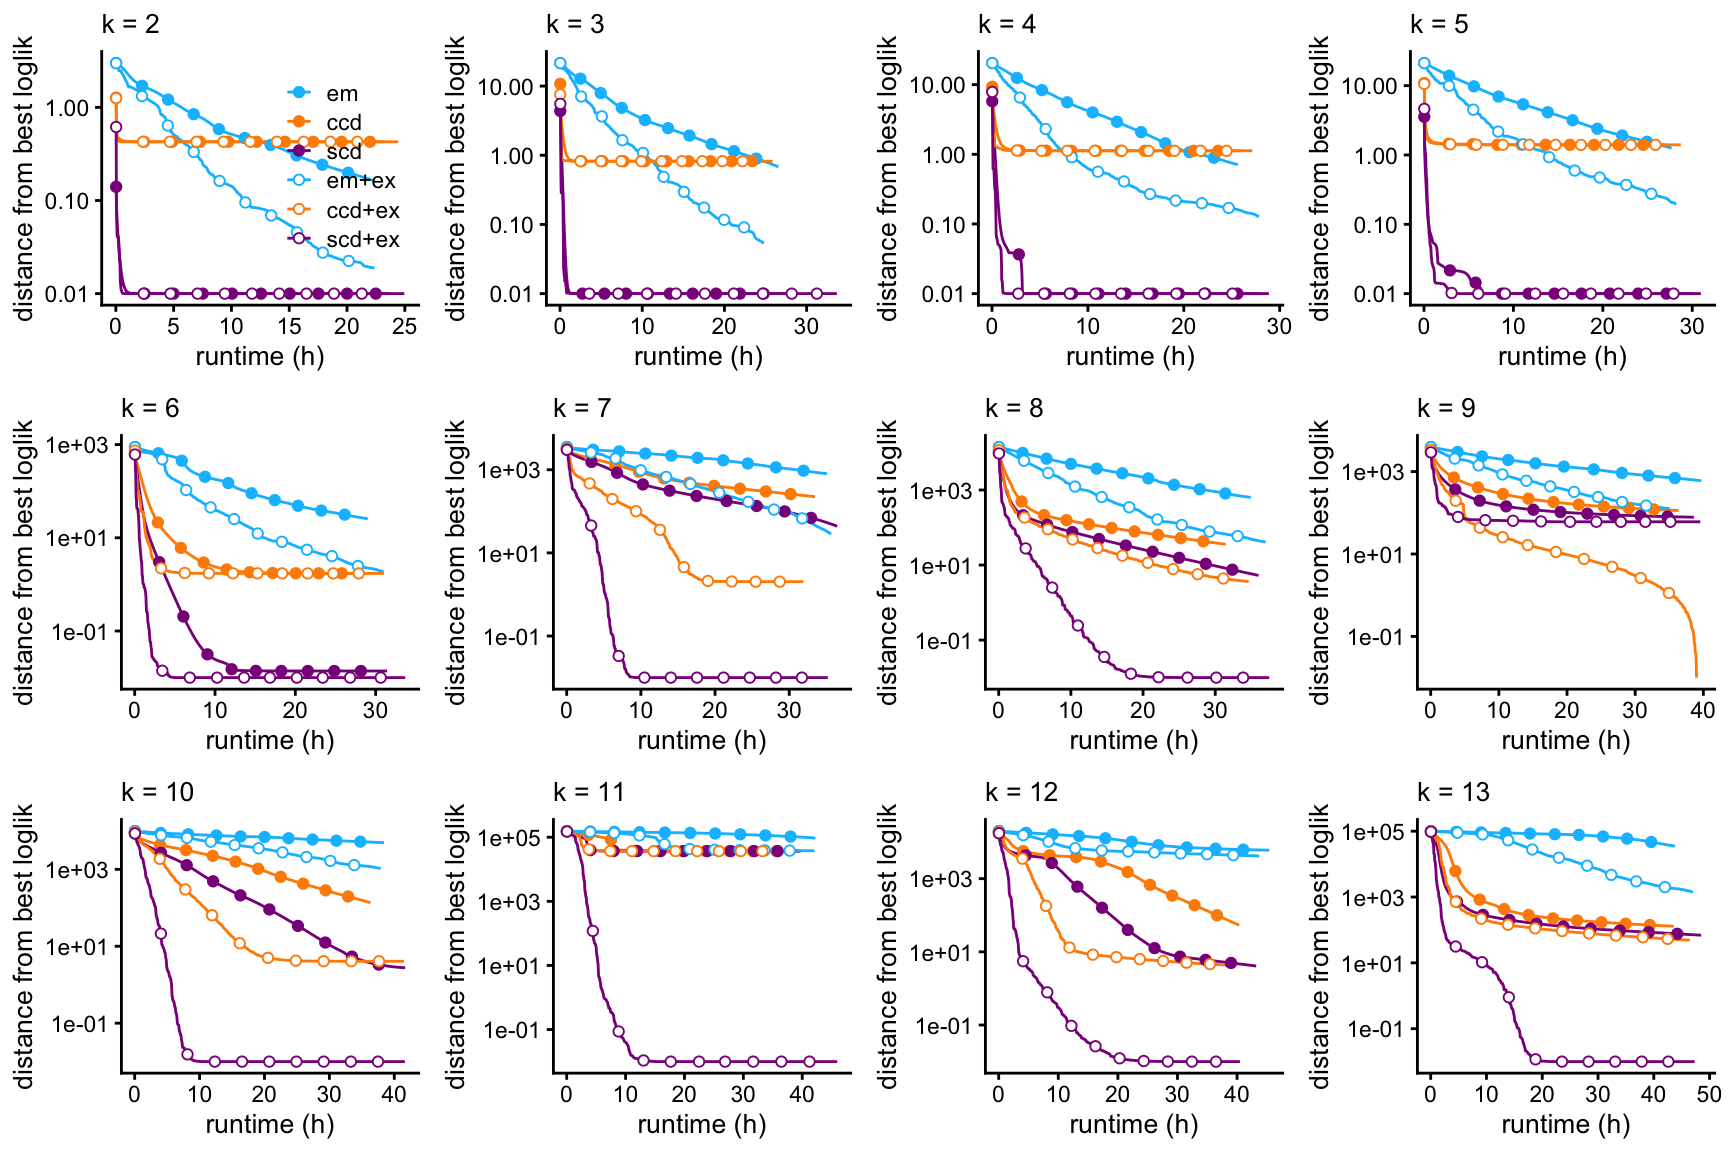
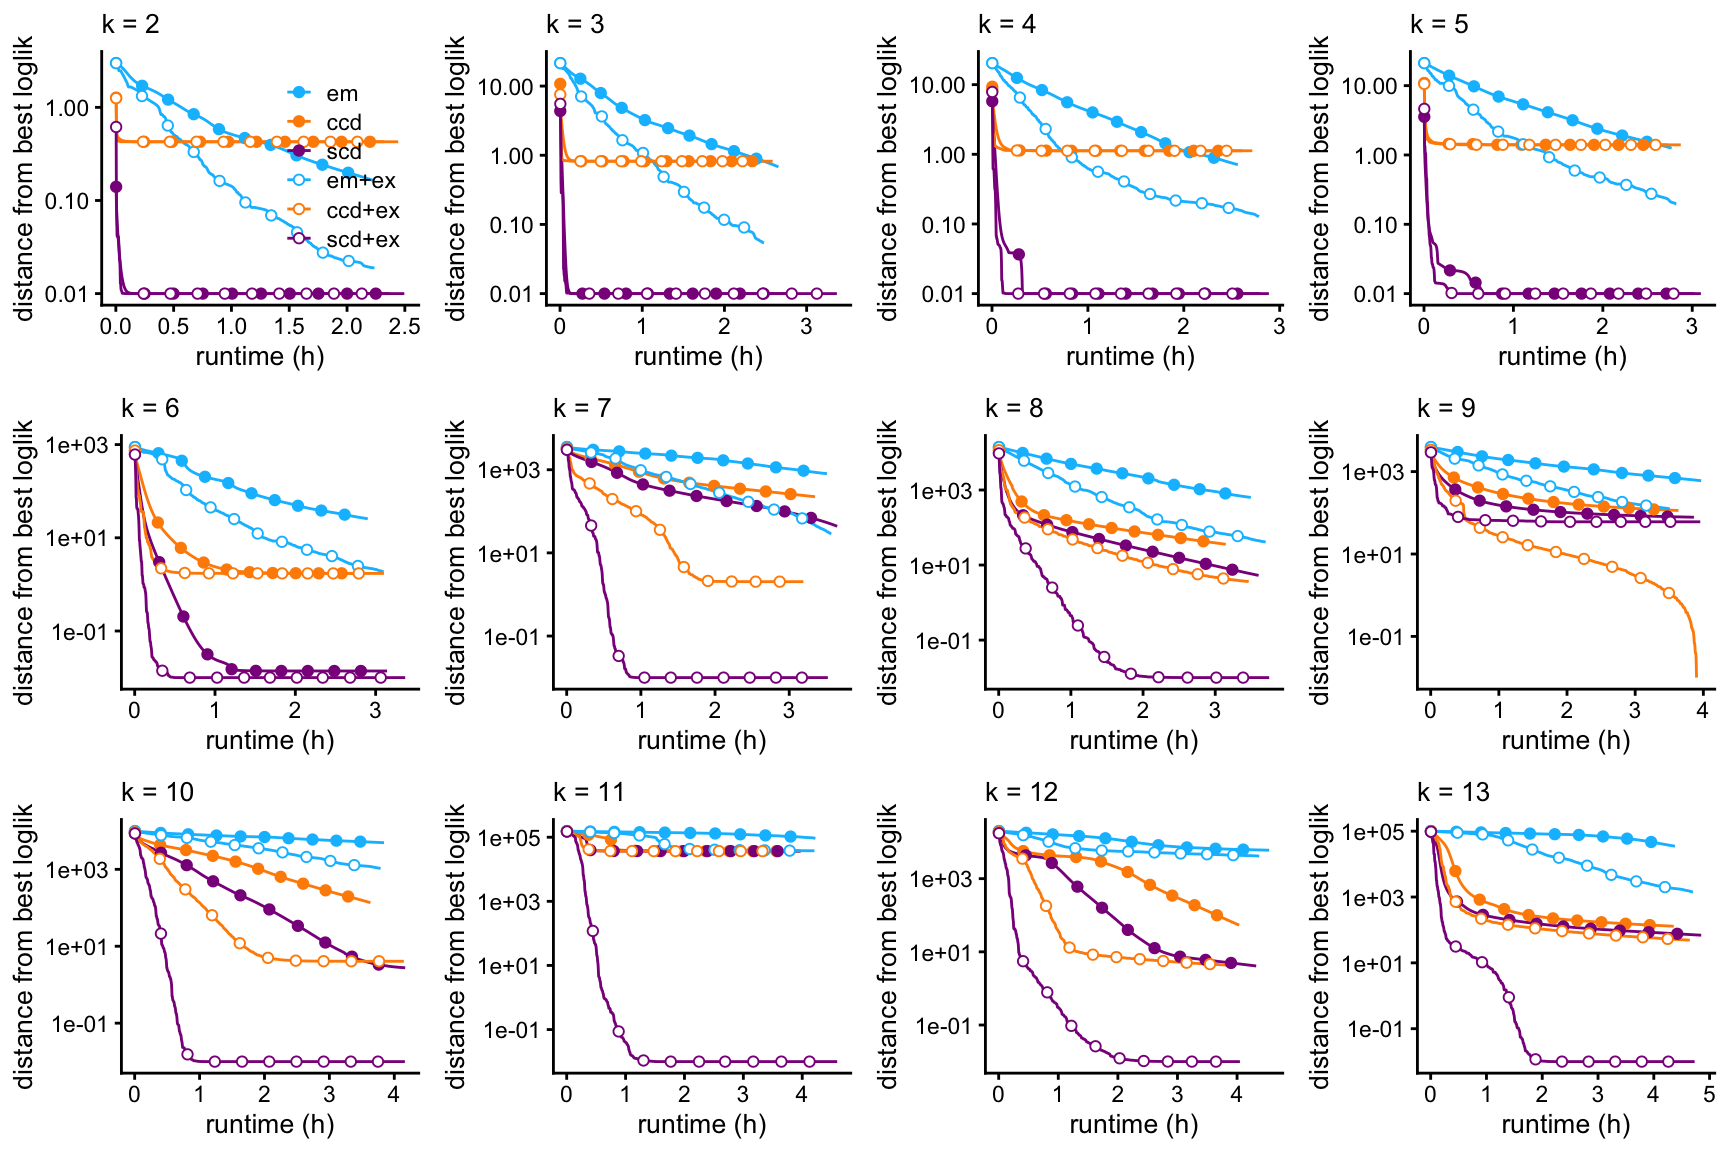
Re-ran assess_fits_68k_pbmc analysis with fix to timings reported in x axes.

diff --git a/docs/assess_fits_68k_pbmc.html b/docs/assess_fits_68k_pbmc.html
@@ -285,7 +285,9 @@ $(document).ready(function () {
 </li>
       </ul>
       <ul class="nav navbar-nav navbar-right">
-        
+        <li>
+  <a href="https://github.com/stephenslab/single-cell-topics">source</a>
+</li>
       </ul>
     </div><!--/.nav-collapse -->
   </div><!--/.container -->
@@ -321,7 +323,7 @@ $(document).ready(function () {
 <div class="tab-content">
 <div id="summary" class="tab-pane fade in active">
 <p>
-<strong>Last updated:</strong> 2020-08-10
+<strong>Last updated:</strong> 2020-08-31
 </p>
 <p>
 <strong>Checks:</strong> <span class="glyphicon glyphicon-ok text-success" aria-hidden="true"></span> 7 <span class="glyphicon glyphicon-exclamation-sign text-danger" aria-hidden="true"></span> 0
@@ -412,25 +414,34 @@ This reproducible <a href="http://rmarkdown.rstudio.com">R Markdown</a> analysis
 <div class="panel panel-default">
 <div class="panel-heading">
 <p class="panel-title">
-<a data-toggle="collapse" data-parent="#workflowr-checks" href="#strongRepositoryversionstrongahrefhttpsgithubcomstephenslabsinglecelltopicstree31361c96e319fe107126a111788c26a92f85ce1ftargetblank31361c9a"> <span class="glyphicon glyphicon-ok text-success" aria-hidden="true"></span> <strong>Repository version:</strong> <a href="https://github.com/stephenslab/single-cell-topics/tree/31361c96e319fe107126a111788c26a92f85ce1f" target="_blank">31361c9</a> </a>
+<a data-toggle="collapse" data-parent="#workflowr-checks" href="#strongRepositoryversionstrongahrefhttpsgithubcomstephenslabsinglecelltopicstreef970ef9bda99c49fd81401e028bfbae9a556d661targetblankf970ef9a"> <span class="glyphicon glyphicon-ok text-success" aria-hidden="true"></span> <strong>Repository version:</strong> <a href="https://github.com/stephenslab/single-cell-topics/tree/f970ef9bda99c49fd81401e028bfbae9a556d661" target="_blank">f970ef9</a> </a>
 </p>
 </div>
[2 lines of base64/hex data omitted]
 <div class="panel-body">
 <p>
 Great! You are using Git for version control. Tracking code development and connecting the code version to the results is critical for reproducibility.
 </p>
 <p>
-The results in this page were generated with repository version <a href="https://github.com/stephenslab/single-cell-topics/tree/31361c96e319fe107126a111788c26a92f85ce1f" target="_blank">31361c9</a>. See the <em>Past versions</em> tab to see a history of the changes made to the R Markdown and HTML files.
+The results in this page were generated with repository version <a href="https://github.com/stephenslab/single-cell-topics/tree/f970ef9bda99c49fd81401e028bfbae9a556d661" target="_blank">f970ef9</a>. See the <em>Past versions</em> tab to see a history of the changes made to the R Markdown and HTML files.
 </p>
 <p>
 Note that you need to be careful to ensure that all relevant files for the analysis have been committed to Git prior to generating the results (you can use <code>wflow_publish</code> or <code>wflow_git_commit</code>). workflowr only checks the R Markdown file, but you know if there are other scripts or data files that it depends on. Below is the status of the Git repository when the results were generated:
 </p>
 <pre><code>
 Ignored files:
+    Ignored:    data/droplet.RData
+    Ignored:    data/pbmc_68k.RData
+    Ignored:    data/pbmc_purified.RData
+    Ignored:    data/pulseseq.RData
     Ignored:    output/droplet/fits-droplet.RData
+    Ignored:    output/droplet/rds/
     Ignored:    output/pbmc-68k/fits-pbmc-68k.RData
+    Ignored:    output/pbmc-68k/rds/
     Ignored:    output/pbmc-purified/fits-pbmc-purified.RData
+    Ignored:    output/pbmc-purified/rds/
+    Ignored:    output/pulseseq/fits-pulseseq.RData
+    Ignored:    output/pulseseq/rds/
 
 </code></pre>
 <p>
@@ -469,6 +480,23 @@ Message
 </tr>
 </thead>
 <tbody>
+<tr>
+<td>
+html
+</td>
+<td>
+<a href="https://rawcdn.githack.com/stephenslab/single-cell-topics/1619420cdcbbfc27a0eb4722ba7ab331183a66e8/docs/assess_fits_68k_pbmc.html" target="_blank">1619420</a>
+</td>
+<td>
+Peter Carbonetto
+</td>
+<td>
+2020-08-10
+</td>
+<td>
+Made a couple small edits to the text in the assess_fits_68k_pbmc
+</td>
+</tr>
 <tr>
 <td>
 Rmd
@@ -667,7 +695,7 @@ Peter Carbonetto
 <pre class="r"><code>sessionInfo()
 # R version 3.6.2 (2019-12-12)
 # Platform: x86_64-apple-darwin15.6.0 (64-bit)
-# Running under: macOS Catalina 10.15.5
+# Running under: macOS Catalina 10.15.6
 # 
 # Matrix products: default
 # BLAS:   /Library/Frameworks/R.framework/Versions/3.6/Resources/lib/libRblas.0.dylib
@@ -680,10 +708,10 @@ Peter Carbonetto
 # [1] stats     graphics  grDevices utils     datasets  methods   base     
 # 
 # other attached packages:
-# [1] cowplot_1.0.0      ggplot2_3.3.0      fastTopics_0.3-145
+# [1] cowplot_1.0.0      ggplot2_3.3.0      fastTopics_0.3-165
 # 
 # loaded via a namespace (and not attached):
-#  [1] ggrepel_0.9.0        Rcpp_1.0.3           lattice_0.20-38     
+#  [1] ggrepel_0.9.0        Rcpp_1.0.5           lattice_0.20-38     
 #  [4] tidyr_1.0.0          prettyunits_1.1.1    assertthat_0.2.1    
 #  [7] zeallot_0.1.0        rprojroot_1.3-2      digest_0.6.23       
 # [10] R6_2.4.1             backports_1.1.5      MatrixModels_0.4-1  
@@ -700,7 +728,7 @@ Peter Carbonetto
 # [43] dplyr_0.8.3          withr_2.1.2          later_1.0.0         
 # [46] MASS_7.3-51.4        grid_3.6.2           jsonlite_1.6        
 # [49] gtable_0.3.0         lifecycle_0.1.0      git2r_0.26.1        
-# [52] magrittr_1.5         scales_1.1.0         RcppParallel_4.4.4  
+# [52] magrittr_1.5         scales_1.1.0         RcppParallel_5.0.2  
 # [55] stringi_1.4.3        farver_2.0.1         fs_1.3.1            
 # [58] promises_1.1.0       vctrs_0.2.1          tools_3.6.2         
 # [61] glue_1.3.1           purrr_0.3.3          hms_0.5.2           
